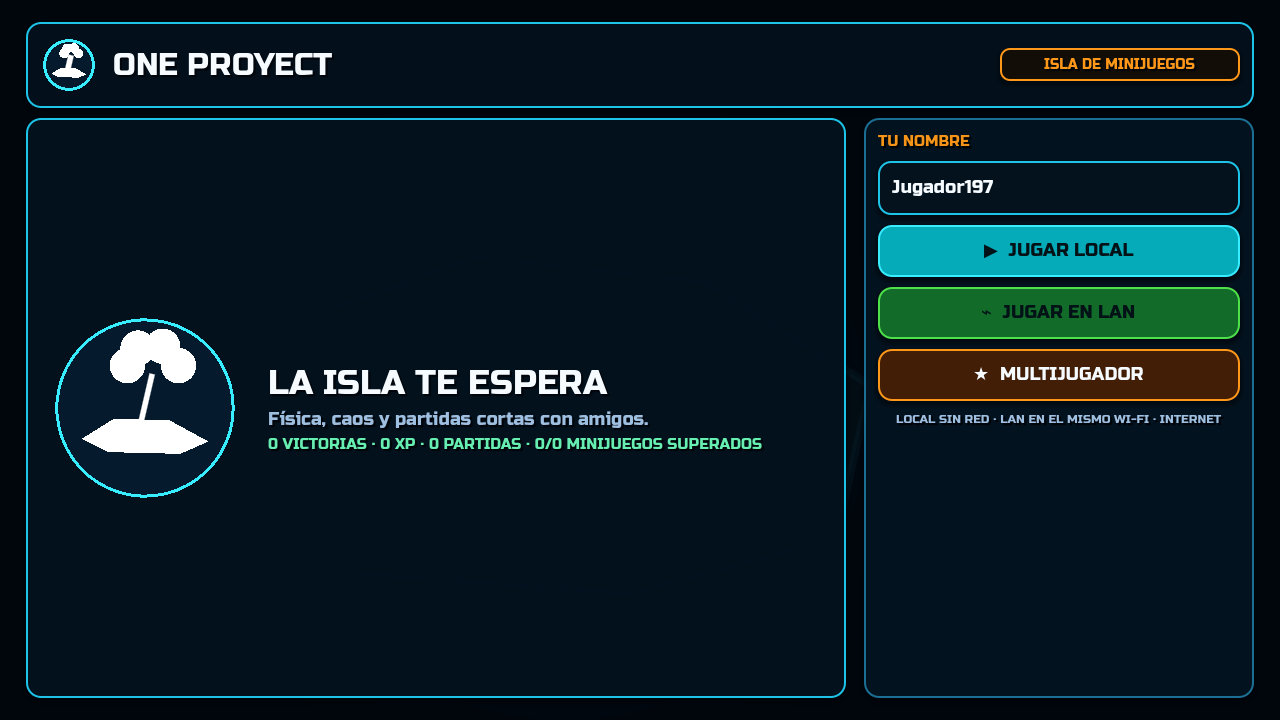
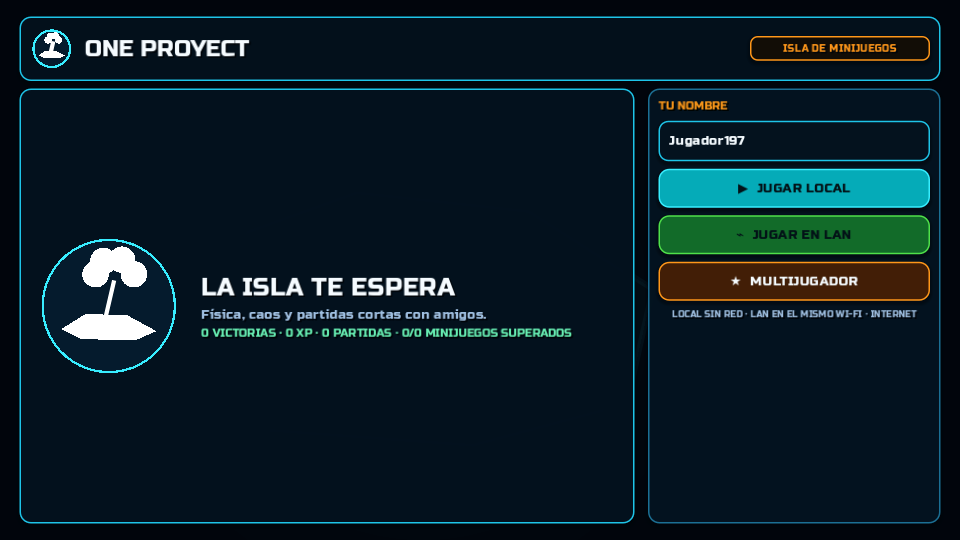
feat: let room host select each minigame

diff --git a/server/README.md b/server/README.md
@@ -22,7 +22,7 @@ rutas visuales o del cliente.
 - reloj de salas y eventos: 20 ticks/s;
 - estados físicos del propietario: hasta 20/s;
 - snapshots: 10/s;
-- canal 0 fiable: sesión, reconexión y ronda;
+- canal 0 fiable: sesión, reconexión y ciclo del minijuego;
 - canal 1 `unreliable_ordered`: estados propietarios y snapshots;
 - canal 2 fiable: eventos críticos.
 
@@ -35,7 +35,7 @@ vacíos; el snapshot interno de dos jugadores usado por pruebas ocupa 72 bytes.
 Una desconexión conserva identidad, token, posición, velocidad, vida,
 puntuación y última secuencia durante 60 segundos. Un nuevo `peer_id` con el token
 correcto recupera el mismo `player_id`. El lobby crea hasta cinco salas dentro
-del proceso, cada una con un máximo de cinco sesiones. Sólo el anfitrión puede
+del proceso, cada una con un máximo de ocho sesiones. Sólo el anfitrión puede
 iniciar, se requieren al menos dos jugadores y todos deben confirmar `ready`;
 si éste se desconecta, el rol pasa al siguiente jugador conectado. El servidor
 conserva sólo el índice lógico de personaje, nunca su modelo o material.
@@ -45,6 +45,10 @@ en resultado hasta que un jugador pide volver; nunca encadena otro modo. La
 misma sala conserva identidad, puntuación acumulada y progreso, mientras limpia
 los estados `ready` y restaura el cuerpo para el próximo minijuego. La RPC de
 sala incluye sólo índices y cifras; nunca recursos visuales.
+
+Mientras la sala espera, el anfitrión publica un único `selected_mode_id`.
+Todos ven esa selección antes de marcarse listos. No existe una segunda ruta
+de selección mediante veto ni una elección aleatoria oculta en el servidor.
 
 ## Medición
 

diff --git a/docs/LOCAL_ROUND_ARCHITECTURE.md b/docs/LOCAL_ROUND_ARCHITECTURE.md
@@ -6,7 +6,7 @@ rondas ni una rotación automática: al terminar un minijuego se vuelve a la
 sala.
 
 Esta capa funciona sin `Network` y no modifica la arquitectura ENet existente.
-Su objetivo es que mapas, eventos y rondas puedan aprobarse en un cliente antes
+Su objetivo es que mapas, eventos y partidas puedan aprobarse en un cliente antes
 de decidir qué resultados necesitarán autoridad remota.
 
 ## Responsabilidades
@@ -20,7 +20,7 @@ de decidir qué resultados necesitarán autoridad remota.
 - `LocalRoundController`: único dueño de fases, tiempos, bloqueo de controles y
   limpieza.
 - `LocalBaseCharacter`: movimiento e impulsos inmediatos; desconoce mapas,
-  rondas y red.
+  partidas y red.
 - `LocalShooterHost`: arma seleccionada por semilla, hitscan, bots locales,
   vida, cargadores independientes, respawn y clasificación individual; no
   crea el escenario.
@@ -54,8 +54,8 @@ PREPARE → RULES → COUNTDOWN → ACTIVE → RESULT → CLEANUP → IDLE
 ```
 
 `stop_and_clean()` incrementa una generación interna. Todo temporizador viejo
-comprueba esa generación al despertar, por lo que una ronda cancelada no puede
-continuar ni reactivar contenido. La prueba marca tres goles en ocho rondas y
+comprueba esa generación al despertar, por lo que una partida cancelada no puede
+continuar ni reactivar contenido. La prueba marca tres goles en ocho ejecuciones y
 ejecuta una cancelación; todas vuelven exactamente al mismo conteo de nodos y
 restauran la cámara en tercera persona.
 

diff --git a/docs/SERVER_CAPACITY.md b/docs/SERVER_CAPACITY.md
@@ -21,9 +21,9 @@ Referencias oficiales:
 ## Qué consume cada unidad
 
 El transporte frecuente conserva buffers `PackedByteArray` por destinatario.
-Un estado subido ocupa 22 bytes. Con cinco jugadores, cada cliente recibe
-snapshots de 120 bytes a 10 Hz. El tráfico de aplicación es aproximadamente
-1,17 KiB/s por jugador antes de cabeceras UDP/ENet.
+Un estado subido ocupa 22 bytes. Con ocho jugadores, cada cliente recibe
+snapshots de 192 bytes a 10 Hz. El tráfico de aplicación es aproximadamente
+1,88 KiB/s por jugador antes de cabeceras UDP/ENet.
 
 La prueba `tests/server_memory_benchmark.gd` construye cien salas y quinientas
 sesiones en un único proceso. La memoria estática incremental medida fue:
@@ -105,7 +105,7 @@ cliente seguirá resolviendo partículas, trazadores, sonido y animación.
 
 ## Política de capacidad
 
-Los máximos actuales de cinco salas por cinco jugadores son un límite de
+Los máximos actuales de cinco salas por ocho jugadores son un límite de
 producto, no el techo técnico medido. No se llenará la máquina hasta el 100 %:
 
 - CPU sostenida objetivo: como máximo 50 % de un núcleo para el proceso.

diff --git a/README.md b/README.md
@@ -96,8 +96,9 @@ La guía para añadir modos, mapas y personajes sin acoplarlos al núcleo está 
 
 El arranque muestra dos rutas separadas. **JUGAR LOCAL** abre la isla-laboratorio
 sin conectarse a ningún servidor. **MULTIJUGADOR** abre un lobby ENet/UDP con hasta
-cinco salas simultáneas de cinco personas cada una. El creador es el anfitrión
-de la sala y puede iniciar cuando hay entre dos y cinco jugadores y todos han
+cinco salas simultáneas de ocho personas cada una. El creador es el anfitrión
+de la sala, elige directamente un minijuego y puede iniciar cuando hay entre
+dos y ocho jugadores y todos han
 marcado **LISTO**; si se desconecta, el siguiente jugador conectado hereda ese
 rol. El personaje se elige en la sala, queda bloqueado al confirmar y no puede
 cambiarse durante la partida.

diff --git a/docs/NETWORK_ARCHITECTURE.md b/docs/NETWORK_ARCHITECTURE.md
@@ -130,9 +130,10 @@ servidor mantiene el último estado propietario: posición, velocidad, vida,
 orientación, puntuación y máscara corporal. Una reconexión válida recupera el
 mismo `player_id` y ese estado.
 
-El lobby admite cinco salas en un proceso y cinco jugadores por sala. Sólo el
+El lobby admite cinco salas en un proceso y ocho jugadores por sala. Sólo el
 anfitrión inicia, se requieren al menos dos personas y todas deben marcarse
-listas. El anfitrión también fija la longitud de partida. No hay matchmaking
+listas. El anfitrión elige directamente el único minijuego que se ejecutará;
+no hay veto, rotación aleatoria ni longitud configurable. No hay matchmaking
 público, migración de proceso, P2P, cuentas ni persistencia de servidor.
 
 ## Límite futuro

diff --git a/docs/ARCHITECTURE.md b/docs/ARCHITECTURE.md
@@ -21,7 +21,7 @@ Esta división sigue tres ideas usadas por motores y muestras grandes:
   [Game Features](https://dev.epicgames.com/documentation/en-us/unreal-engine/game-features-and-modular-gameplay-in-unreal-engine).
 
 No se copian esas arquitecturas completas: esta versión conserva sólo los
-límites útiles para un juego pequeño de cinco personas y teléfonos modestos.
+límites útiles para un juego pequeño de hasta ocho personas y teléfonos modestos.
 
 ## Capas estables
 

diff --git a/docs/LOCAL_LAN_AUDIT.md b/docs/LOCAL_LAN_AUDIT.md
@@ -67,7 +67,7 @@ principio se conserva.
 ### Bomba
 
 - Corregido: el anfitrión elige un portador inicial determinista por semilla,
-  decide contactos y ejecuta la única mecha capaz de terminar la ronda.
+  decide contactos y ejecuta la única mecha capaz de terminar el minijuego.
 - Corregido: portador, tiempo restante, explosión y perdedor viajan como
   eventos fiables identificados por ronda.
 - Corregido: sólo pierde quien tenía la bomba; los demás sobreviven.
